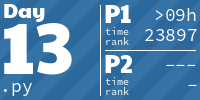
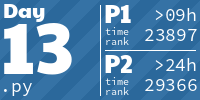
2024 - Day 13

Changed region(s): [[0.72, 0.78, 0.99, 0.93], [0.78, 0.57, 0.99, 0.72]]

diff --git a/ibidem/advent_of_code/y2024/dec13.py b/ibidem/advent_of_code/y2024/dec13.py
@@ -1,14 +1,14 @@
 #!/usr/bin/env python
 import enum
 import re
-from collections import deque
 from dataclasses import dataclass
-from functools import lru_cache
+
+import sympy as sp
 
 from ibidem.advent_of_code.util import get_input_name
 
 
-class ButtonPress(enum.Enum):
+class ButtonCost(enum.Enum):
     A = 3
     B = 1
 
@@ -20,32 +20,17 @@ class Vector:
 
 
 @dataclass(frozen=True)
-class Coordinate:
-    x: int
-    y: int
-
-    def __add__(self, other):
-        return Coordinate(self.x + other.x, self.y + other.y)
-
-    def __sub__(self, other):
-        return Coordinate(self.x - other.x, self.y - other.y)
-
-    def __eq__(self, other):
-        return self.x == other.x and self.y == other.y
-
-
-@dataclass(frozen=True)
 class ClawMachine:
     button_a: Vector
     button_b: Vector
-    prize: Coordinate
-    _cache: dict[Coordinate, list[ButtonPress]]
+    prize: Vector
+    _cache: dict[Vector, list[ButtonCost]]
 
     _button_pattern = re.compile(r"Button [AB]: X\+(\d+), Y\+(\d+)")
     _prize_pattern = re.compile(r"Prize: X=(\d+), Y=(\d+)")
 
     @classmethod
-    def load(cls, input):
+    def load(cls, input, adjust=False):
         line = next(input)
         m = cls._button_pattern.search(line)
         button_a = Vector(int(m.group(1)), int(m.group(2)))
@@ -56,46 +41,30 @@ class ClawMachine:
 
         line = next(input)
         m = cls._prize_pattern.search(line)
-        prize = Coordinate(int(m.group(1)), int(m.group(2)))
+        prize_x = int(m.group(1))
+        price_y = int(m.group(2))
+        if adjust:
+            prize_x += 10000000000000
+            price_y += 10000000000000
+        prize = Vector(prize_x, price_y)
 
         return cls(button_a, button_b, prize, {})
 
-    def solve(self):
-        presses = self._solve(self.prize)
-        if presses is not None:
-            return sum(p.value for p in presses)
-        return None
-
-    def _solve(self, target, depth=0):
-        if target in self._cache:
-            return self._cache[target]
-        if target.x == 0 and target.y == 0:
-            return []
-        if target.x < 0 or target.y < 0:
-            return None
-        if depth > 200:
-            return None
-
-        result = None
-        result_cost = float("inf")
-        for press, button in ((ButtonPress.A, self.button_a), (ButtonPress.B, self.button_b)):
-            presses = self._solve(target - button, depth + 1)
-            if presses is not None:
-                presses = presses + [press]
-                presses_cost = sum(p.value for p in presses)
-                if result is None or presses_cost < result_cost:
-                    result = presses
-                    result_cost = presses_cost
-        self._cache[target] = result
-        return result
+    def solve_sympy(self):
+        a, b = sp.symbols("a b", integer=True, positive=True)
+        eq1 = sp.Eq(a * self.button_a.x + b * self.button_b.x, self.prize.x)
+        eq2 = sp.Eq(a * self.button_a.y + b * self.button_b.y, self.prize.y)
+        sol = sp.solve((eq1, eq2), (a, b))
+        if sol:
+            return sol[a] * ButtonCost.A.value + sol[b] * ButtonCost.B.value
 
 
-def load(fobj):
+def load(fobj, adjust=False):
     lines = iter(fobj)
     machines = []
     try:
         while True:
-            machines.append(ClawMachine.load(lines))
+            machines.append(ClawMachine.load(lines, adjust))
             next(lines)
     except StopIteration:
         pass
@@ -105,14 +74,19 @@ def load(fobj):
 def part1(machines: list[ClawMachine]):
     sum = 0
     for machine in machines:
-        cost = machine.solve()
+        cost = machine.solve_sympy()
         if cost is not None:
             sum += cost
     return sum
 
 
 def part2(machines):
-    return None
+    sum = 0
+    for machine in machines:
+        cost = machine.solve_sympy()
+        if cost is not None:
+            sum += cost
+    return sum
 
 
 if __name__ == "__main__":
@@ -120,5 +94,5 @@ if __name__ == "__main__":
         p1_result = part1(load(fobj))
         print(f"Part 1: {p1_result}")
     with open(get_input_name(13, 2024)) as fobj:
-        p2_result = part2(load(fobj))
+        p2_result = part2(load(fobj, adjust=True))
         print(f"Part 2: {p2_result}")

diff --git a/ibidem/advent_of_code/y2024/test/test_dec13.py b/ibidem/advent_of_code/y2024/test/test_dec13.py
@@ -9,7 +9,8 @@ from ibidem.advent_of_code.y2024.dec13 import load, part1, part2, Vector, Coordi
 Case = namedtuple('Case', 'part1 part2 input')
 
 TEST_INPUTS = [
-    Case(480, NotImplemented, io.StringIO(textwrap.dedent("""\
+    # Part 2 answer from own testing
+    Case(480, 875318608908, io.StringIO(textwrap.dedent("""\
         Button A: X+94, Y+34
         Button B: X+22, Y+67
         Prize: X=8400, Y=5400
@@ -39,6 +40,10 @@ class TestDec13():
     def loaded(self, case):
         return load(case.input)
 
+    @pytest.fixture
+    def adjusted(self, case):
+        return load(case.input, adjust=True)
+
     def test_load(self, loaded):
         assert len(loaded) == 4
         assert loaded[1].button_a == Vector(26, 66)
@@ -49,8 +54,8 @@ class TestDec13():
         result = part1(loaded)
         assert result == case.part1
 
-    def test_part2(self, loaded, case):
-        result = part2(loaded)
+    def test_part2(self, adjusted, case):
+        result = part2(adjusted)
         assert result == case.part2
 
     def test_solve(self):

diff --git a/README.rst b/README.rst
@@ -111,6 +111,11 @@ To add a pre-commit hook that generates tiles, copy ``pre-commit`` to ``.git/hoo
    :width: 161px
    :target: ibidem/advent_of_code/y2024/dec13.py
 
+
+.. image:: Media/2024/14.png
+   :width: 161px
+   :target: ibidem/advent_of_code/y2024/dec14.py
+
 .. AOC TILES END - 2024
 
 .. AOC TILES BEGIN - 2023
